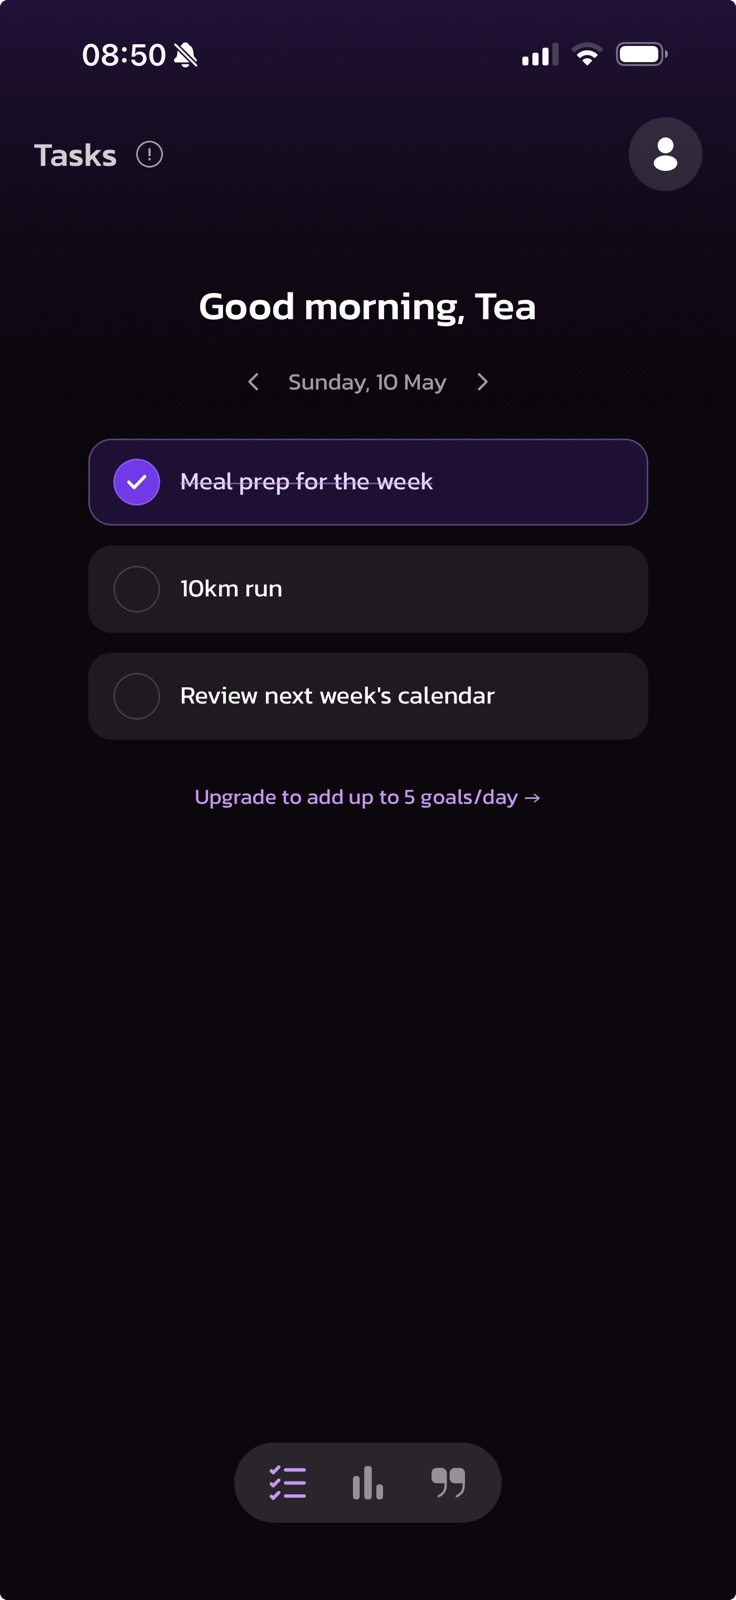
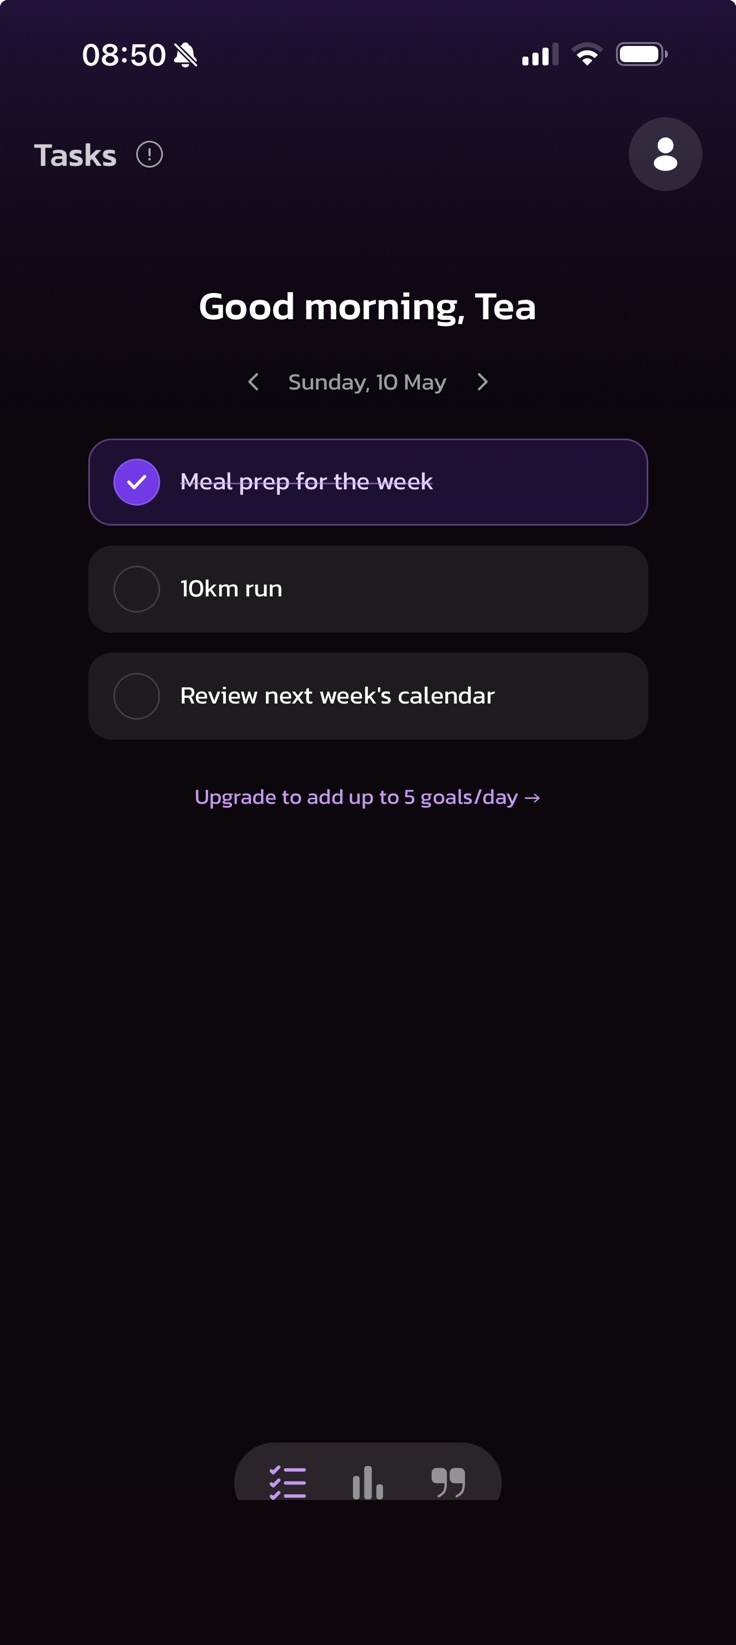
Fix Tasks mockup overflow on mobile
- Reduce framed mockup to max-w-[210px] on mobile (was 280px) — Safari chrome was eating viewport space
- Trim home-indicator dead space from feature-task.jpg and pad to phone-frame aspect 0.447 so object-cover fits with no horizontal crop

diff --git a/components/Features.tsx b/components/Features.tsx
@@ -21,7 +21,7 @@ const FEATURES: Feature[] = [
       <PhoneMockup
         src="/screenshots/feature-task.jpg"
         alt="Today's goals with a mix of completed and pending items"
-        className="w-full max-w-[280px]"
+        className="w-full max-w-[210px] sm:max-w-[280px]"
       />
     ),
   },
@@ -36,7 +36,7 @@ const FEATURES: Feature[] = [
         src="/screenshots/feature-stats.png"
         alt="Stats screen with circular progress, streak cards, and heatmaps"
         bare
-        className="w-full max-w-[280px]"
+        className="w-full max-w-[210px] sm:max-w-[280px]"
       />
     ),
   },
@@ -58,7 +58,7 @@ const FEATURES: Feature[] = [
         src="/screenshots/feature-boost.png"
         alt="Daily Boost screen with today's motivational quote"
         bare
-        className="w-full max-w-[280px]"
+        className="w-full max-w-[210px] sm:max-w-[280px]"
       />
     ),
   },
